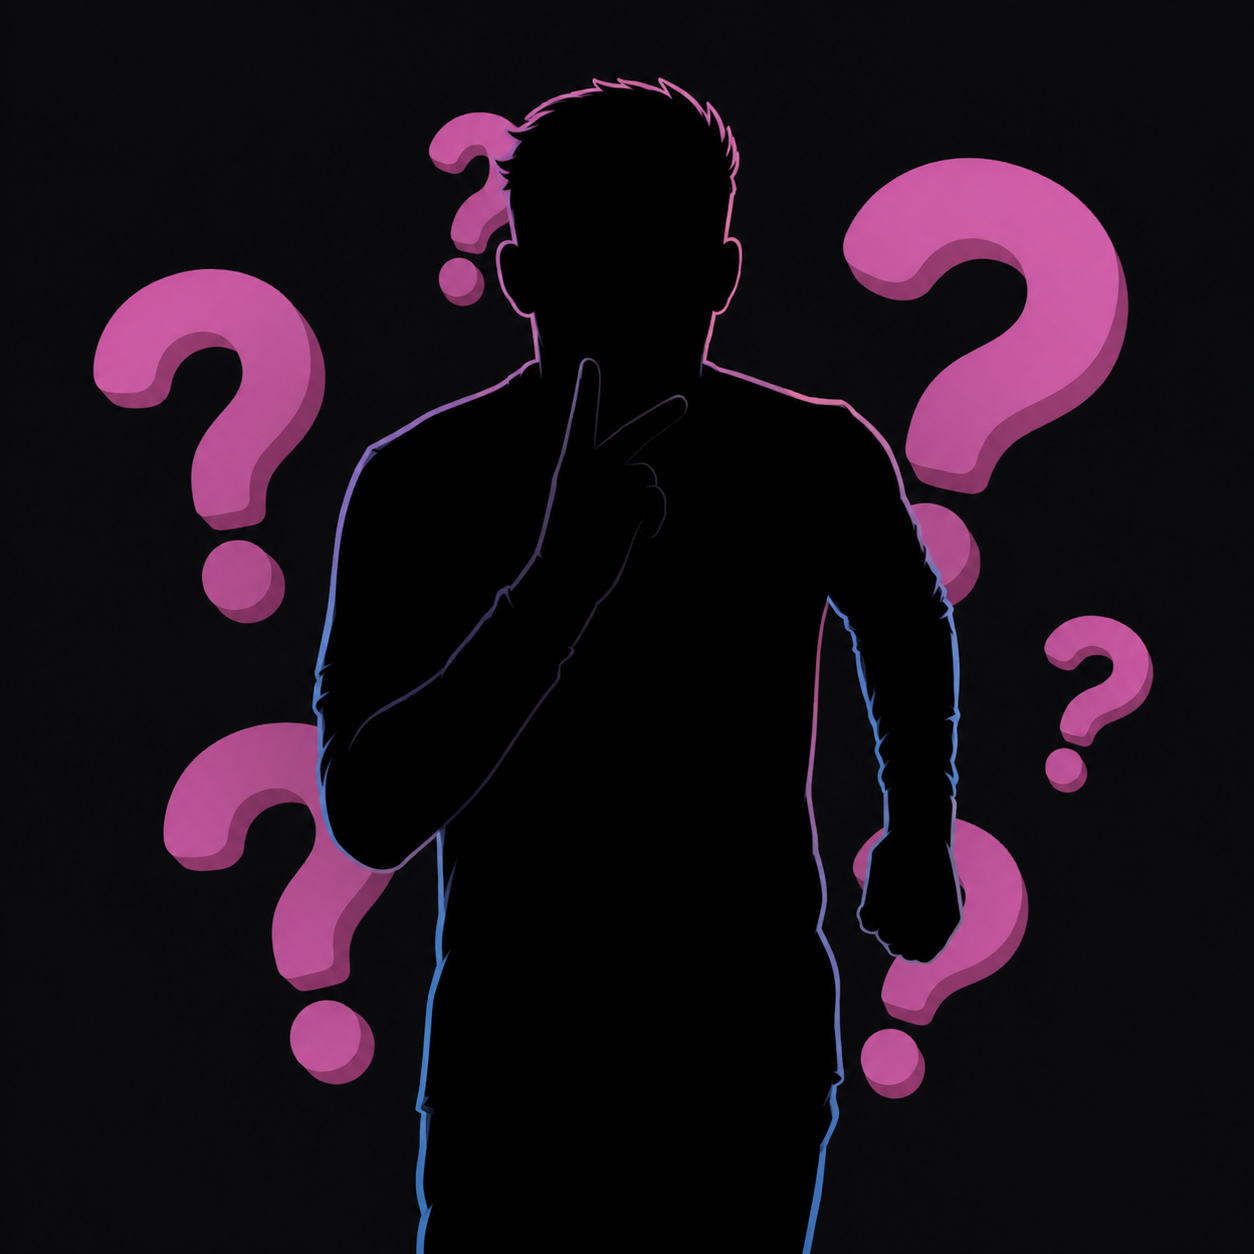
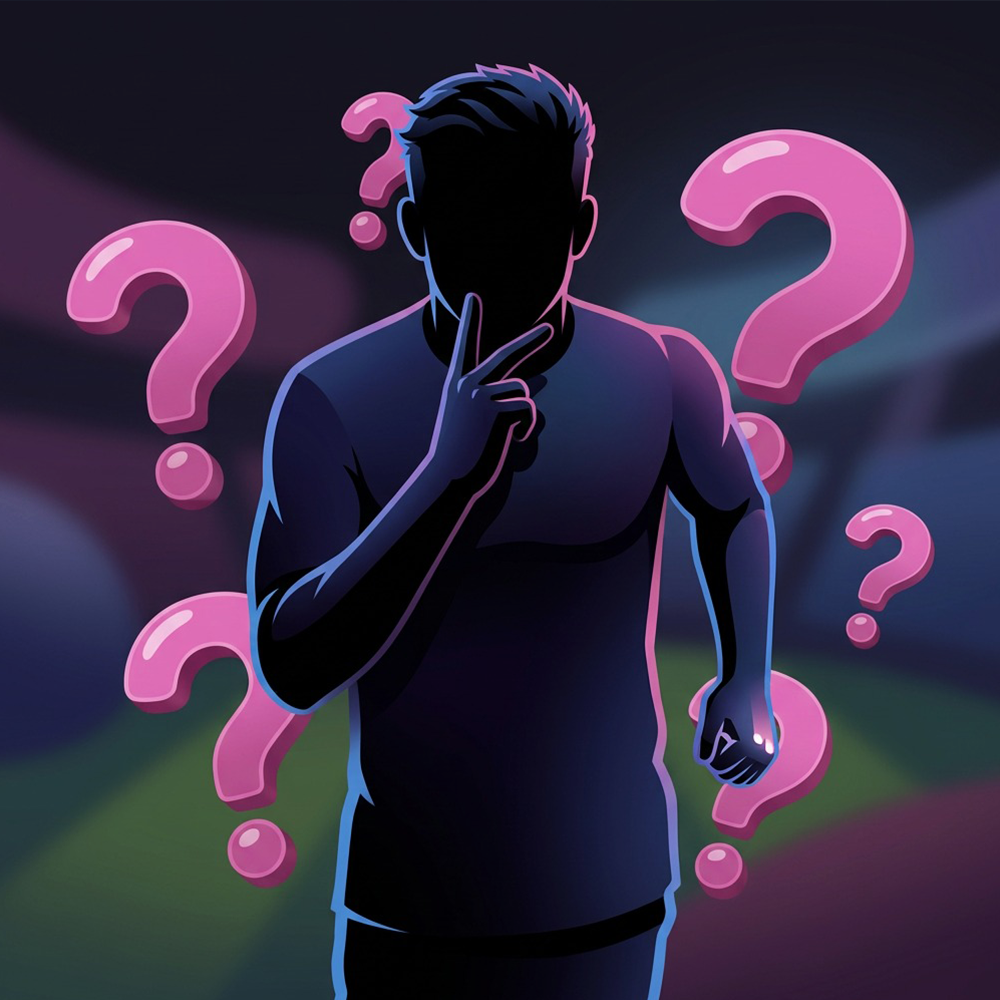
Implement unlimited daily play feature for development accounts
- Added a method in AppConfig to allow unlimited daily play for development accounts.
- Updated AuthManager to track if the user is a development account and expose the unlimited play feature.
- Refactored PlayTabView, DailyTabView, and HomeView to utilize the unlimited play logic, affecting game completion checks and replay options.
- Replaced banner2.jpg with banner3.jpg in resources to update UI assets.
- Adjusted various UI components to reflect changes in daily game handling based on the new feature.

diff --git a/ios/BallKnowledge/Features/Home/HomeView.swift b/ios/BallKnowledge/Features/Home/HomeView.swift
@@ -46,6 +46,8 @@ struct HomeView: View {
     @State private var alreadyPlayedTitle = ""
     @Binding var selectedTab: AppTab
 
+    private var allowsUnlimitedDailyPlay: Bool { auth.allowsUnlimitedDailyPlay }
+
     var body: some View {
         ScrollView(showsIndicators: false) {
             VStack(spacing: 20) {
@@ -58,6 +60,7 @@ struct HomeView: View {
                 if let bundle = viewModel.dailyBundle {
                     DailyRunCard(
                         bundle: bundle,
+                        allowUnlimitedPlay: allowsUnlimitedDailyPlay,
                         onStart: { startDailyRun(with: bundle) }
                     )
                 } else if viewModel.isLoading {
@@ -69,7 +72,9 @@ struct HomeView: View {
                 if let bundle = viewModel.dailyBundle {
                     GamesGridSection(
                         modes: viewModel.gameModes,
-                        completedModeIds: DailyCompletionService.completedSet(for: bundle),
+                        completedModeIds: allowsUnlimitedDailyPlay
+                            ? []
+                            : DailyCompletionService.completedSet(for: bundle),
                         onSelect: { mode in
                             openMode(mode, bundle: bundle)
                         }
@@ -103,7 +108,7 @@ struct HomeView: View {
             DailyGameHost(
                 mode: mode,
                 dailyBundle: viewModel.dailyBundle,
-                allowReplay: false,
+                allowReplay: allowsUnlimitedDailyPlay,
                 onFinished: { handleModeFinished(mode) }
             )
         }
@@ -119,7 +124,7 @@ struct HomeView: View {
         guard let modeId = GameModeID(rawValue: GameModeCatalog.normalizedModeId(mode.id)) else { return }
         guard DailyPlayOrder.playableModes.contains(modeId) else { return }
 
-        if bundle.isCompleted(modeId) {
+        if !allowsUnlimitedDailyPlay, bundle.isCompleted(modeId) {
             alreadyPlayedTitle = mode.title
             showAlreadyPlayedAlert = true
             return
@@ -130,6 +135,12 @@ struct HomeView: View {
     }
 
     private func startDailyRun(with bundle: DailyBundleDTO) {
+        if allowsUnlimitedDailyPlay {
+            isSequentialDaily = true
+            presentedMode = DailyPlayOrder.firstIncomplete(in: bundle) ?? DailyPlayOrder.playableModes.first
+            return
+        }
+
         guard let next = DailyPlayOrder.firstIncomplete(in: bundle) else { return }
         isSequentialDaily = true
         presentedMode = next
@@ -142,6 +153,11 @@ struct HomeView: View {
             await viewModel.load(context: modelContext)
 
             guard isSequentialDaily, let bundle = viewModel.dailyBundle else {
+                isSequentialDaily = false
+                return
+            }
+
+            if allowsUnlimitedDailyPlay {
                 isSequentialDaily = false
                 return
             }
@@ -231,28 +247,22 @@ struct HomeHeaderView: View {
 
 struct DailyRunCard: View {
     let bundle: DailyBundleDTO
+    var allowUnlimitedPlay = false
     var onStart: () -> Void
 
     private var completedCount: Int { DailyPlayOrder.completedCount(in: bundle) }
     private var totalCount: Int { DailyPlayOrder.playableModes.count }
     private var allComplete: Bool { DailyPlayOrder.allComplete(in: bundle) }
     private var nextMode: GameModeID? { DailyPlayOrder.firstIncomplete(in: bundle) }
+    private var showStartButton: Bool { allowUnlimitedPlay || !allComplete }
 
     var body: some View {
         VStack(alignment: .leading, spacing: 10) {
-            HStack(spacing: 6) {
-                ForEach(0..<totalCount, id: \.self) { index in
-                    Capsule()
-                        .fill(index < completedCount ? BKTheme.accent : BKTheme.cardElevated)
-                        .frame(height: 4)
-                }
-            }
-
-            Text("TODAY'S RUN")
+            Text("TODAY'S GAMES")
                 .font(BKFont.caption(11))
                 .foregroundStyle(BKTheme.accent)
 
-            Text(allComplete ? "ALL DAILIES DONE" : "DAILY RUN")
+            Text(allComplete && !allowUnlimitedPlay ? "ALL DAILIES DONE" : "DAILY GAMES")
                 .font(BKFont.title(24))
                 .foregroundStyle(BKTheme.textPrimary)
 
@@ -260,7 +270,7 @@ struct DailyRunCard: View {
                 .font(BKFont.body(13))
                 .foregroundStyle(BKTheme.textSecondary)
 
-            if allComplete {
+            if allComplete && !allowUnlimitedPlay {
                 TimelineView(.periodic(from: .now, by: 60)) { context in
                     HStack(spacing: 6) {
                         Ph.checkCircle.fill
@@ -273,10 +283,10 @@ struct DailyRunCard: View {
                 }
             }
 
-            if !allComplete {
+            if showStartButton {
                 Button(action: onStart) {
                     HStack {
-                        Text(nextMode == DailyPlayOrder.playableModes.first ? "START DAILY" : "CONTINUE DAILY")
+                        Text(startButtonTitle)
                             .font(BKFont.headline(14))
                         Ph.arrowRight.bold
                             .color(BKTheme.background)
@@ -302,7 +312,7 @@ struct DailyRunCard: View {
                         endPoint: .bottomTrailing
                     )
 
-                    BundleResourceImage(name: "banner2")
+                    BundleResourceImage(name: "banner3")
                         .scaledToFill()
                         .frame(width: geo.size.width, height: geo.size.height)
                         .clipped()
@@ -316,6 +326,14 @@ struct DailyRunCard: View {
             }
         }
         .clipShape(RoundedRectangle(cornerRadius: 20))
+    }
+
+    private var startButtonTitle: String {
+        if allowUnlimitedPlay, allComplete { return "PLAY DAILY GAMES" }
+        if nextMode == DailyPlayOrder.playableModes.first || nextMode == nil {
+            return "START DAILY GAMES"
+        }
+        return "CONTINUE DAILY GAMES"
     }
 
     private var progressSubtitle: String {

diff --git a/ios/BallKnowledge/Features/MainTabView.swift b/ios/BallKnowledge/Features/MainTabView.swift
@@ -33,12 +33,15 @@ struct MainTabView: View {
 }
 
 struct PlayTabView: View {
+    @Environment(AuthManager.self) private var auth
     @Environment(\.modelContext) private var modelContext
     @State private var modes: [GameModeMetaDTO] = []
     @State private var dailyBundle: DailyBundleDTO?
     @State private var presentedMode: GameModeID?
     @State private var showAlreadyPlayedAlert = false
     @State private var alreadyPlayedTitle = ""
+
+    private var allowsUnlimitedDailyPlay: Bool { auth.allowsUnlimitedDailyPlay }
 
     var body: some View {
         NavigationStack {
@@ -47,7 +50,7 @@ struct PlayTabView: View {
                     ForEach(modes) { mode in
                         GameModeTile(
                             mode: mode,
-                            isCompletedToday: isCompleted(mode)
+                            isCompletedToday: allowsUnlimitedDailyPlay ? false : isCompleted(mode)
                         ) {
                             openMode(mode)
                         }
@@ -66,7 +69,7 @@ struct PlayTabView: View {
                 DailyGameHost(
                     mode: mode,
                     dailyBundle: dailyBundle,
-                    allowReplay: false,
+                    allowReplay: allowsUnlimitedDailyPlay,
                     onFinished: {
                         presentedMode = nil
                         Task {
@@ -94,7 +97,7 @@ struct PlayTabView: View {
         guard let modeId = GameModeID(rawValue: GameModeCatalog.normalizedModeId(mode.id)) else { return }
         guard DailyPlayOrder.playableModes.contains(modeId) else { return }
 
-        if bundle.isCompleted(modeId) {
+        if !allowsUnlimitedDailyPlay, bundle.isCompleted(modeId) {
             alreadyPlayedTitle = mode.title
             showAlreadyPlayedAlert = true
             return
@@ -105,10 +108,13 @@ struct PlayTabView: View {
 }
 
 struct DailyTabView: View {
+    @Environment(AuthManager.self) private var auth
     @State private var bundle: DailyBundleDTO?
     @State private var presentedMode: GameModeID?
     @State private var showAlreadyPlayedAlert = false
     @State private var alreadyPlayedTitle = ""
+
+    private var allowsUnlimitedDailyPlay: Bool { auth.allowsUnlimitedDailyPlay }
 
     var body: some View {
         NavigationStack {
@@ -134,11 +140,13 @@ struct DailyTabView: View {
                                     Text(subtitle(for: mode, bundle: bundle))
                                         .font(BKFont.body())
                                         .foregroundStyle(
-                                            bundle.isCompleted(mode) ? BKTheme.accent : BKTheme.textSecondary
+                                            !allowsUnlimitedDailyPlay && bundle.isCompleted(mode)
+                                                ? BKTheme.accent
+                                                : BKTheme.textSecondary
                                         )
                                 }
                                 Spacer()
-                                if bundle.isCompleted(mode) {
+                                if !allowsUnlimitedDailyPlay, bundle.isCompleted(mode) {
                                     Ph.checkCircle.fill
                                         .color(BKTheme.accent)
                                         .frame(width: 22, height: 22)
@@ -166,7 +174,7 @@ struct DailyTabView: View {
                 DailyGameHost(
                     mode: mode,
                     dailyBundle: bundle,
-                    allowReplay: false,
+                    allowReplay: allowsUnlimitedDailyPlay,
                     onFinished: {
                         presentedMode = nil
                         Task { bundle = try? await APIClient.shared.dailyToday() }
@@ -182,7 +190,7 @@ struct DailyTabView: View {
     }
 
     private func subtitle(for mode: GameModeID, bundle: DailyBundleDTO) -> String {
-        if bundle.isCompleted(mode) { return "Completed" }
+        if !allowsUnlimitedDailyPlay, bundle.isCompleted(mode) { return "Completed" }
         switch mode {
         case .guessWho: return "8 guesses · Wordle-style player guess"
         case .targetMan:
@@ -201,7 +209,7 @@ struct DailyTabView: View {
     }
 
     private func openMode(_ mode: GameModeID, bundle: DailyBundleDTO) {
-        if bundle.isCompleted(mode) {
+        if !allowsUnlimitedDailyPlay, bundle.isCompleted(mode) {
             alreadyPlayedTitle = mode.title
             showAlreadyPlayedAlert = true
             return

diff --git a/ios/BallKnowledge/Features/Auth/AuthManager.swift b/ios/BallKnowledge/Features/Auth/AuthManager.swift
@@ -8,6 +8,11 @@ final class AuthManager {
     var isAuthenticated = false
     var isLoading = true
     var errorMessage: String?
+    private(set) var isDevAccount = false
+
+    var allowsUnlimitedDailyPlay: Bool {
+        AppConfig.allowsUnlimitedDailyPlay(isDevAccount: isDevAccount)
+    }
 
     func bootstrap() async {
         isLoading = true
@@ -21,9 +26,11 @@ final class AuthManager {
         do {
             user = try await APIClient.shared.me()
             isAuthenticated = true
+            isDevAccount = UserDefaults.standard.bool(forKey: UserDefaultsKeys.isDevAccount)
         } catch {
             await APIClient.shared.clearToken()
             isAuthenticated = false
+            isDevAccount = false
         }
     }
 
@@ -31,6 +38,9 @@ final class AuthManager {
         isLoading = true
         errorMessage = nil
         defer { isLoading = false }
+
+        isDevAccount = identityToken.hasPrefix("dev:")
+        UserDefaults.standard.set(isDevAccount, forKey: UserDefaultsKeys.isDevAccount)
 
         do {
             let response = try await APIClient.shared.authApple(
@@ -58,6 +68,8 @@ final class AuthManager {
         await APIClient.shared.clearToken()
         user = nil
         isAuthenticated = false
+        isDevAccount = false
+        UserDefaults.standard.set(false, forKey: UserDefaultsKeys.isDevAccount)
     }
 
     func deleteAccount() async {

diff --git a/ios/BallKnowledge/DesignSystem/TeamBadge.swift b/ios/BallKnowledge/DesignSystem/TeamBadge.swift
@@ -109,7 +109,12 @@ actor TeamLogoCache {
     private var cache: [String: CachedLogo] = [:]
     private var inFlight: [String: Task<CachedLogo, Never>] = [:]
 
-    func lookup(club: String, league: String) async -> CachedLogo {
+    func lookup(club: String, league: String) async -> (teamId: Int?, logoURL: URL?) {
+        let cached = await lookupCached(club: club, league: league)
+        return (cached.teamId, cached.logoURL)
+    }
+
+    private func lookupCached(club: String, league: String) async -> CachedLogo {
         let key = TeamBadgeResolver.cacheKey(club: club, league: league)
         if let cached = cache[key] { return cached }
 

diff --git a/ios/BallKnowledge/App/Config.swift b/ios/BallKnowledge/App/Config.swift
@@ -13,8 +13,18 @@ enum AppConfig {
     static let privacyPolicyURL = URL(string: "https://ballknowledge.app/privacy")!
     static let maxGuessWhoGuesses = 8
     static let dailyXpGoal = 300
+
+    /// Dev sign-in can replay dailies and skips completed-game UI lockout (DEBUG only).
+    static func allowsUnlimitedDailyPlay(isDevAccount: Bool) -> Bool {
+        #if DEBUG
+        return isDevAccount
+        #else
+        return false
+        #endif
+    }
 }
 
 enum UserDefaultsKeys {
     static let hasCompletedOnboarding = "hasCompletedOnboarding"
+    static let isDevAccount = "isDevAccount"
 }
